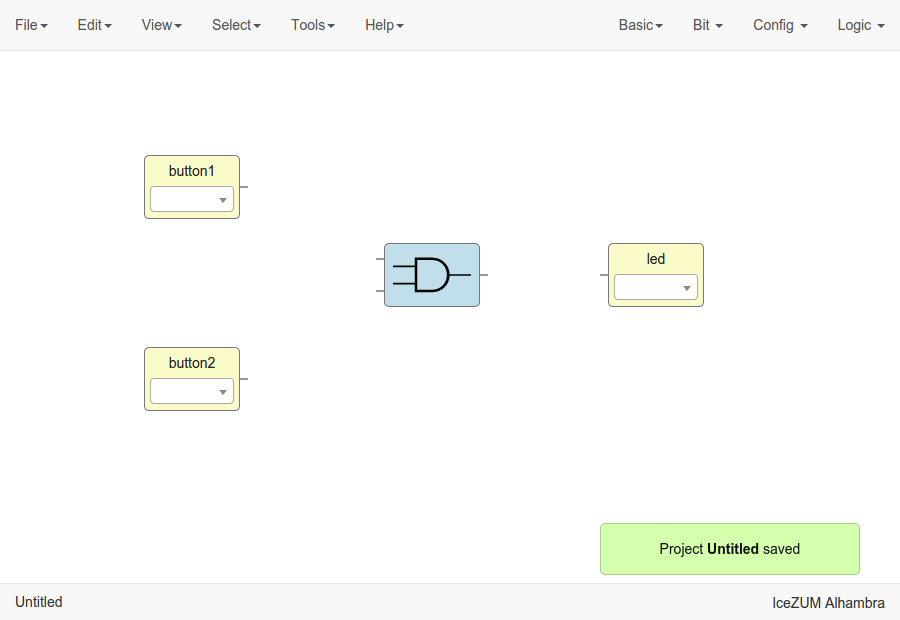
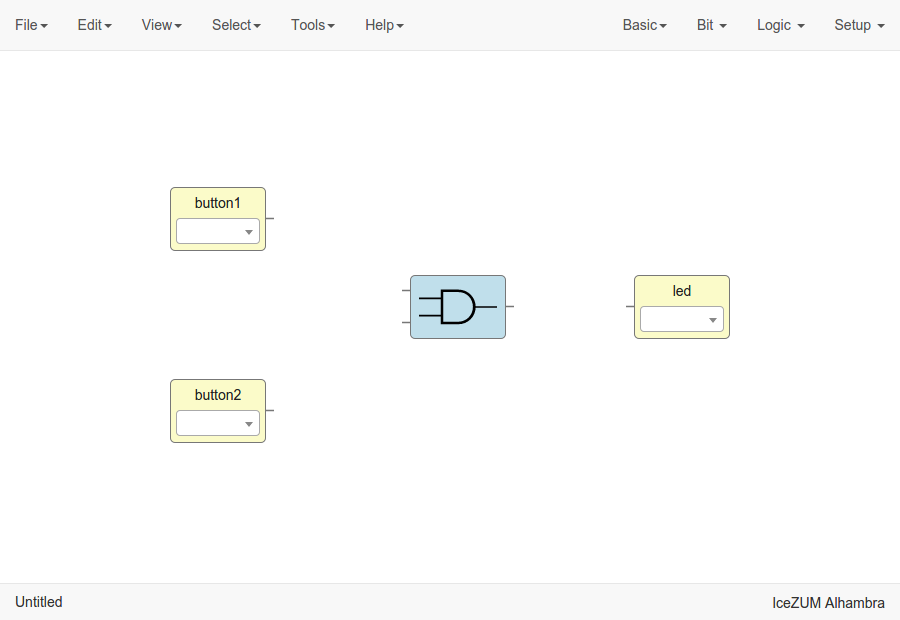
Update howto

diff --git a/source/howto.rst b/source/howto.rst
@@ -57,6 +57,8 @@ Create a collection package
 
 1. **Create one or more collections**
 
+You can use the `icm cli tool <https://github.com/FPGAwars/icm>`_ to create and update a collection.
+
   .. code::
 
     Collection/
@@ -78,8 +80,9 @@ Create a collection package
     │   ├── es_ES
     │   │   └── es_ES.po
     │   └── translation.js
-    └── package.json
-
+    ├── LICENSE
+    ├── package.json
+    └── README.md
 
 
 2. **ZIP all your collections**
@@ -97,7 +100,7 @@ Create a collection package
 
 .. note::
 
-    The file **package.json** must exists, and also the **blocks** directory and/or the **examples** directory. The **locale** directory is optional. More information in the `Default collection <https://github.com/FPGAwars/icestudio/tree/develop/app/resources/collection>`_.
+    The file **package.json** must exists, and also the **blocks** directory and/or the **examples** directory. The **locale** directory is optional. More information in the `Default collection <https://github.com/FPGAwars/collection-default>`_.
 
 
 Add a collection
@@ -110,6 +113,12 @@ Select a collection
 -------------------
 
 Go to **Select > Collections**. Select a collection. The first item is the "Default" collection that is the one stored in the application.
+
+
+View the selected collection info
+---------------------------------
+
+Go to **View > Collection info**. A new window will appear with the README.md file content.
 
 
 Create a project
@@ -178,6 +187,16 @@ There are different types of blocks:
 
     .. image:: ../resources/images/howto/info.png
 
+    |
+
+    It can be converted into a Readonly text block by editing the block (double-click).
+
+    .. image:: ../resources/images/howto/info-prompt.png
+
+    |
+
+    .. image:: ../resources/images/howto/info-readonly.png
+
  |
 
  5. *Bit blocks*
@@ -190,21 +209,21 @@ There are different types of blocks:
 
  |
 
- 6. *Config block*
+ 6. *Logic blocks*
 
-    Click on **Config > Pull up / Pull up inv / Tri-state**.
+    Go to the **Logic** menu and select a block. This menu contains **Gates**, **Combinational blocks** and **Sequential blocks**.
 
-    The *Pull up* block must be connected to input ports in order to configure a pull up in the FPGA.
-
-    .. image:: ../resources/images/howto/config.png
+    .. image:: ../resources/images/howto/logic.png
 
  |
 
- 7. *Logic blocks*
+ 7. *Setup blocks*
 
-    Go to the **Logic** menu and select. This menu contains **Logic Gates**, **Combinational blocks** and **Sequential flip-flops**.
+    Click on **Setup > Pull up** or **Setup > Tri-state**.
 
-    .. image:: ../resources/images/howto/logic.png
+    The *Pull up* block must be connected to input ports in order to configure a pull up in the FPGA.
+
+    .. image:: ../resources/images/howto/setup.png
 
 |
 
@@ -220,7 +239,7 @@ There are different types of blocks:
 
 4. **Select your board**
 
-   Go to **Select > Board** and select **Go board**, **iCE40-HX8K**, **iCEstick**, **Icezum Alhambra**, **icoBOARD 1.0** or **Kéfir I**.
+   Go to **Select > Board** and select **IceZUM Alhambra**, **Kéfir I iCE40-HX4K**, **Nandland Go board**, **iCE40-HX8K Breakout Board**, **iCEstick Evaluation Kit** or **icoBOARD 1.0**.
 
    .. image:: ../resources/images/howto/board.png
 
